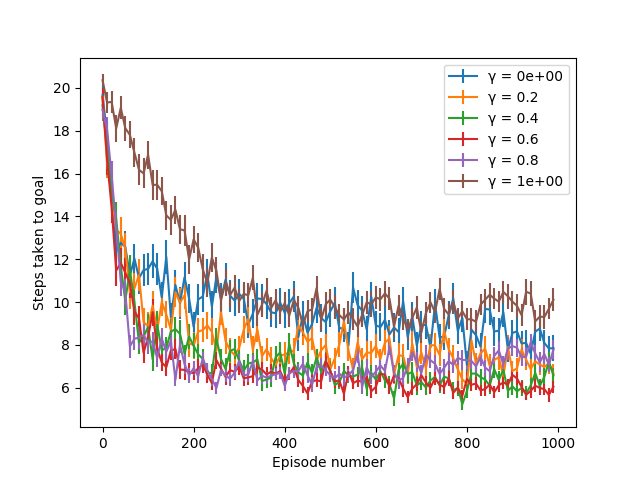
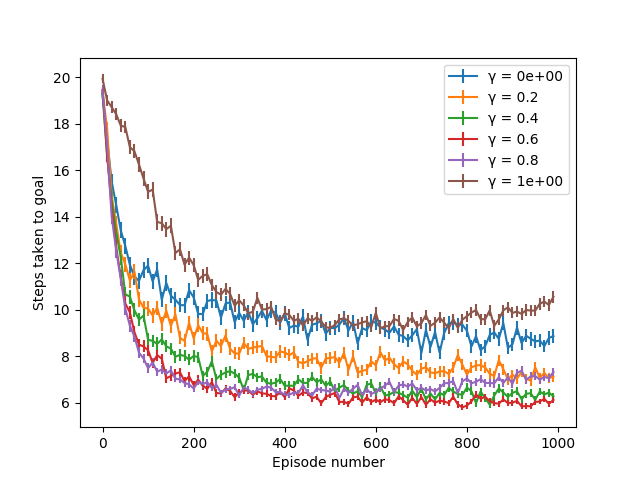
Better accuracy for gamma

diff --git a/report/report.tex b/report/report.tex
@@ -319,7 +319,7 @@ investigation.\footnote{This relates to (but obviously does not answer) Question
       & Yes & 0.5 & Yes \\
     \autoref{fig:tuning_alpha} & 4 & 200 & 200 & 20 & No & 0.1 & $*$ & 0.6 &
       Yes & 0.5 & Yes \\
-    \autoref{fig:tuning_gamma} & 4 & 100 & 200 & 20 & No & 0.1 & 0.8 & $*$ &
+    \autoref{fig:tuning_gamma} & 4 & 500 & 200 & 20 & No & 0.1 & 0.8 & $*$ &
       Yes & 0.5 & Yes \\
     \hline
   \end{tabular}
